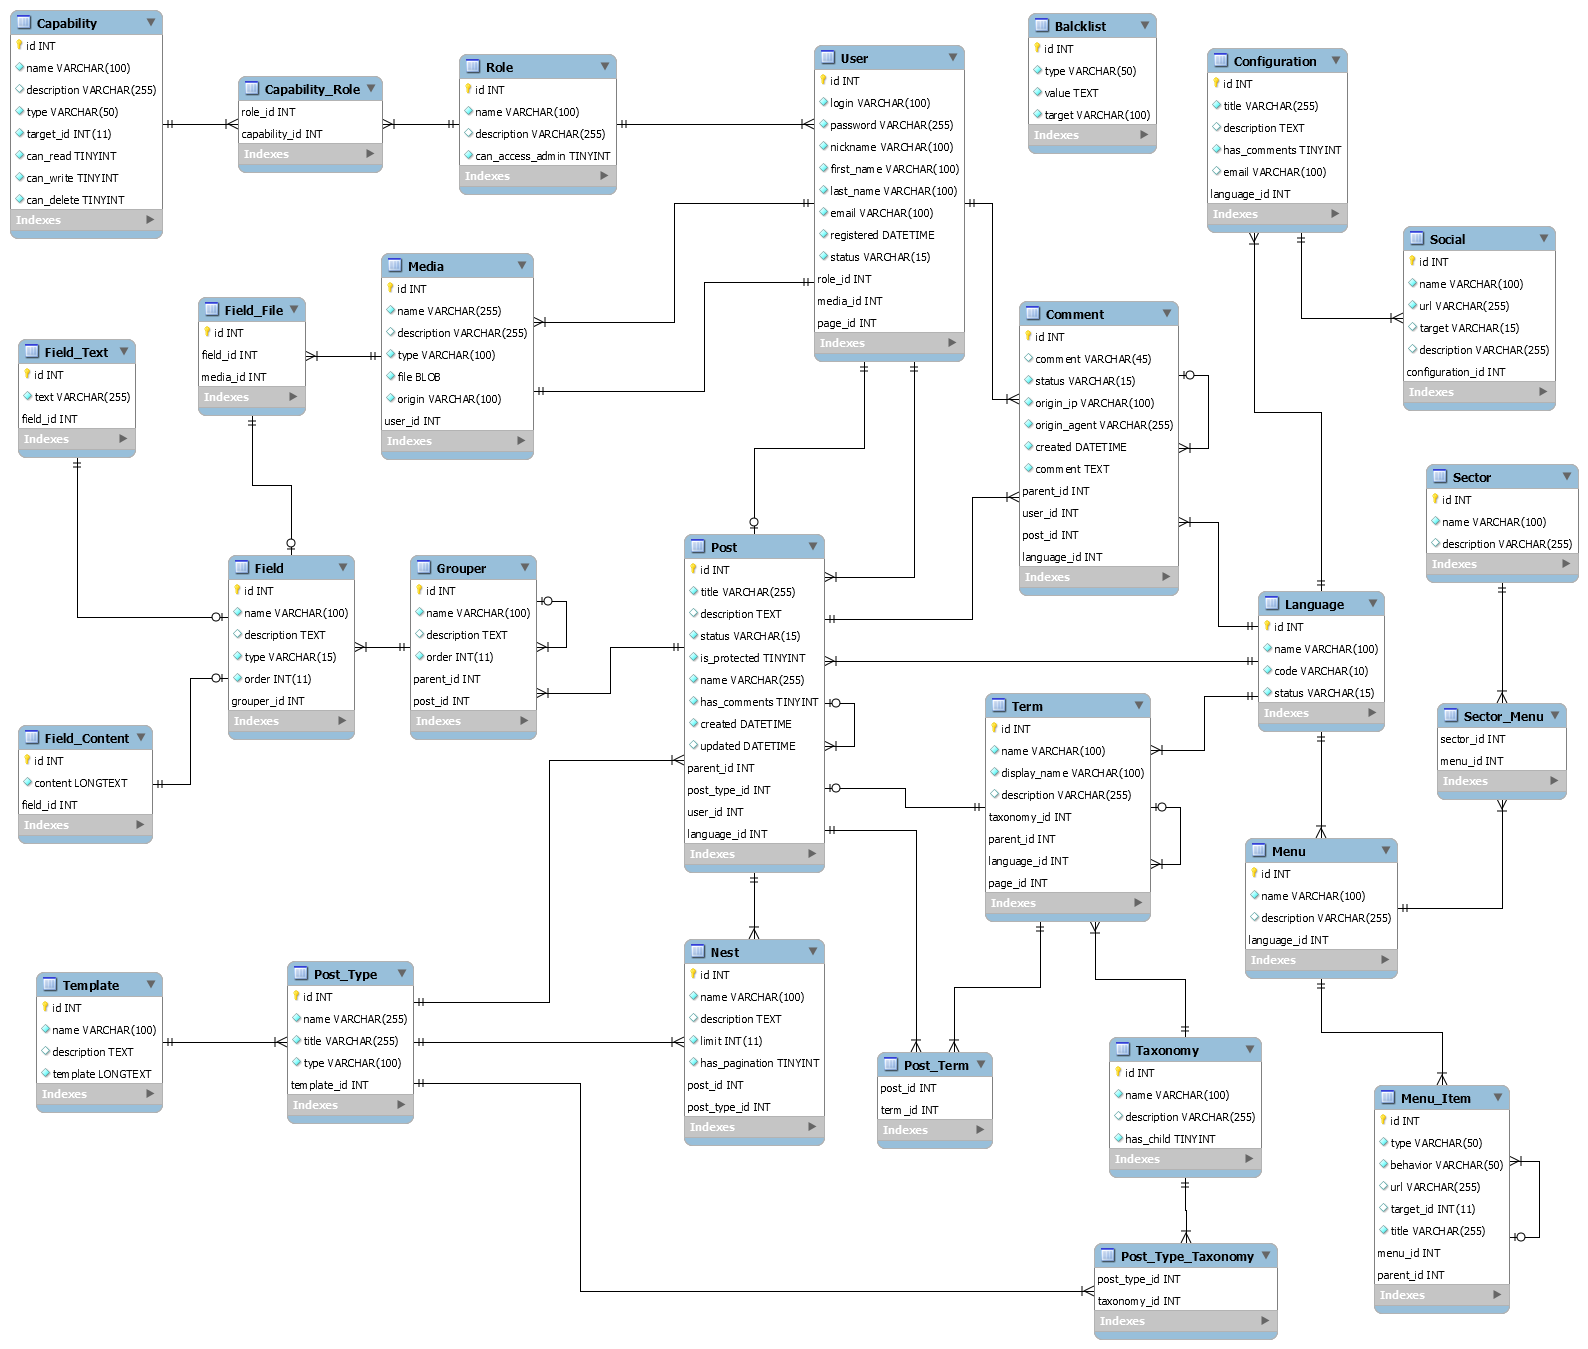
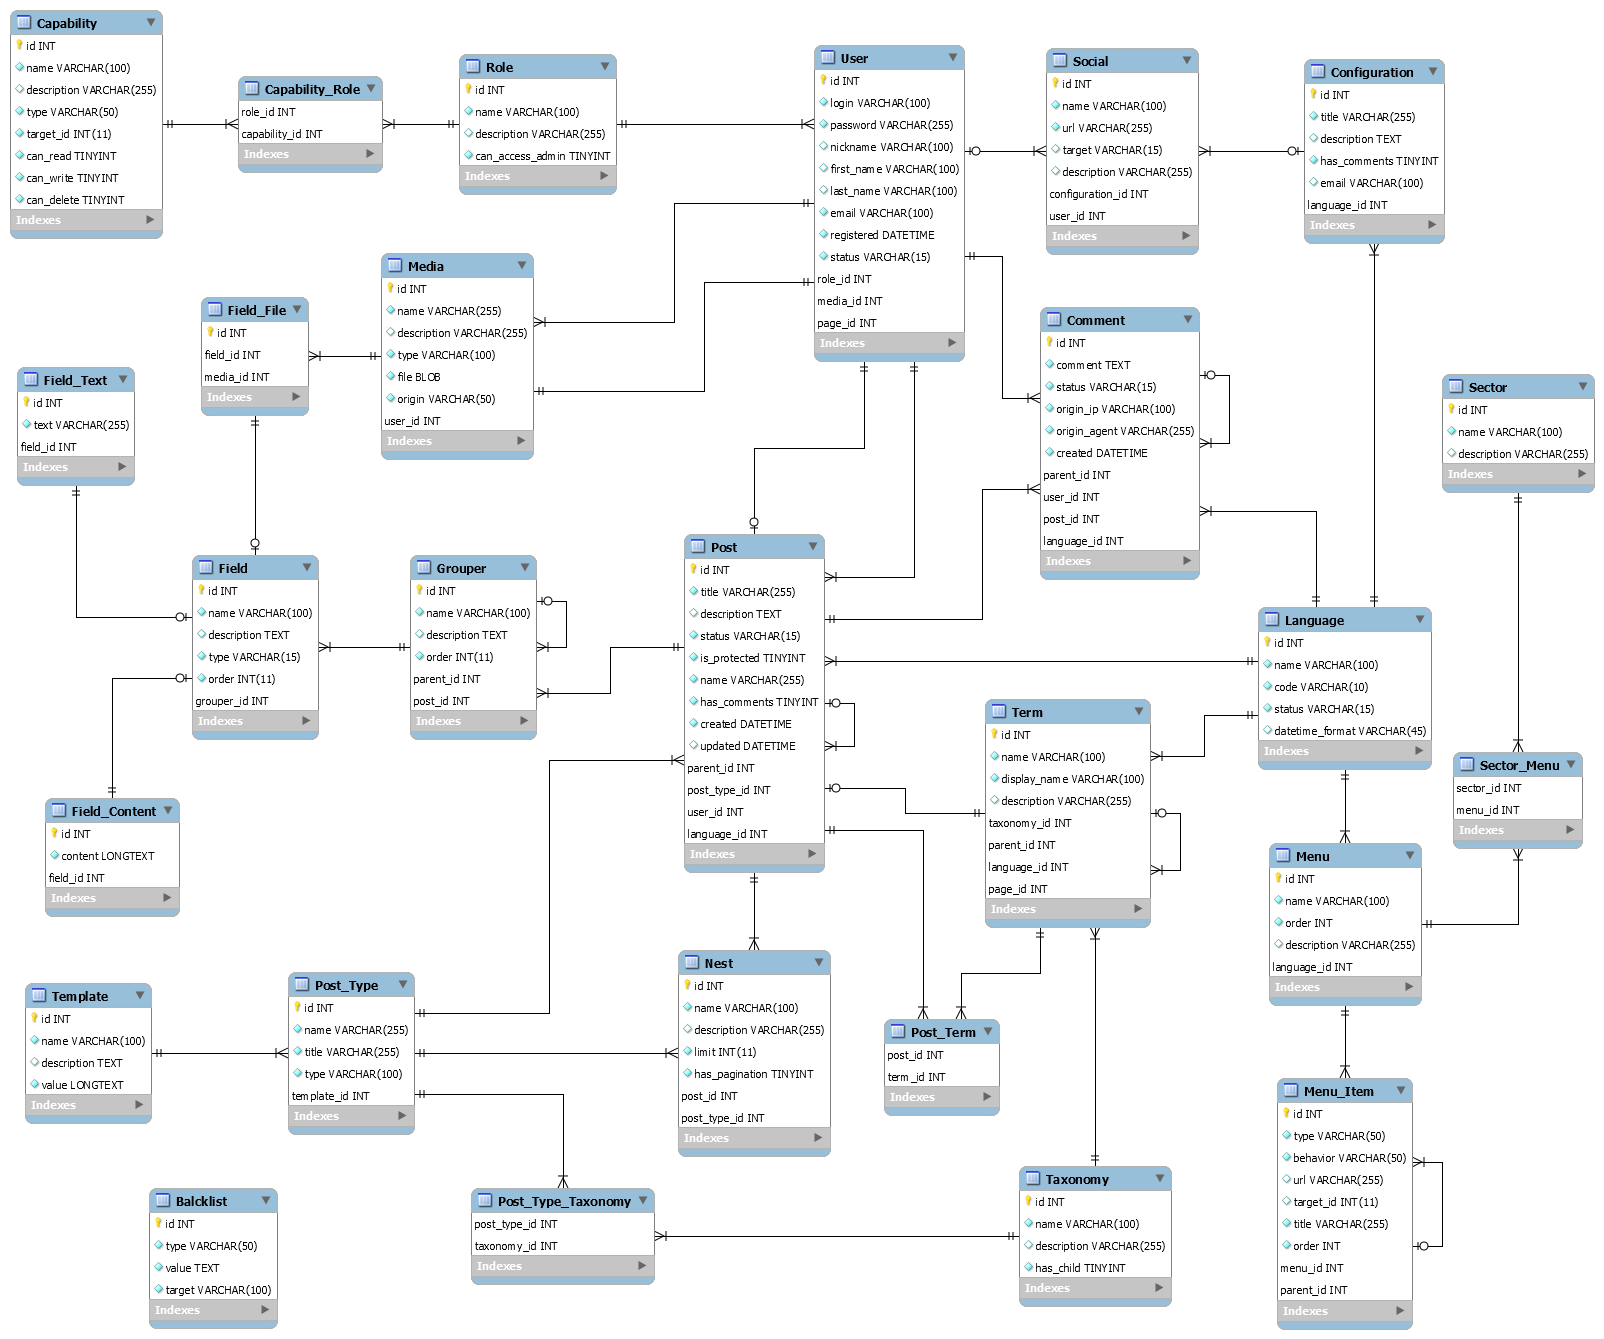
Create configuration and language intial flow db context

diff --git a/application/Models/DBContext.py b/application/Models/DBContext.py
@@ -70,6 +70,7 @@ class Post(Base):
     # foreignKeys
     parent_id = Column(Integer, ForeignKey('Post.id'), nullable=True)
     post_type_id = Column(Integer, ForeignKey('Post_Type.id'), nullable=False)
+    language_id = Column(Integer, ForeignKey('Language.id'), nullable=False)
     # relationships
     parent = relationship('Post', back_populates='children')
     children = relationship('Post', back_populates='parent')
@@ -78,6 +79,7 @@ class Post(Base):
     term = relationship('Term', back_populates='page')
     terms = relationship('Term', secondary=Post_Term, back_populates='posts')
     groupers = relationship('Grouper', back_populates='post')
+    language = relationship('Language', back_populates='languages')
 
 
 class Nest(Base):
@@ -104,13 +106,15 @@ class Term(Base):
     # foreignKeys
     parent_id = Column(Integer, ForeignKey('Term.id'), nullable=True)
     page_id = Column(Integer, ForeignKey('Post.id'), nullable=True) # the term's custom page
-    taxonomy_id = Column(Integer, ForeignKey('Taxonomy.id'), nullable=True)
+    taxonomy_id = Column(Integer, ForeignKey('Taxonomy.id'), nullable=False)
+    language_id = Column(Integer, ForeignKey('Language.id'), nullable=False)
     # relationships
     parent = relationship('Term', back_populates='children')
     children = relationship('Term', back_populates='parent')
     page = relationship('Post', back_populates='term')
     posts = relationship('Post', secondary=Post_Term, back_populates='terms')
     taxonomy = relationship('Taxonomy', back_populates='terms')
+    language = relationship('Language', back_populates='terms')
 
 
 class Taxonomy(Base):
@@ -276,3 +280,47 @@ class User(Base):
     role_id = Column(Integer, ForeignKey('Role.id'), nullable=False)
     # relationships
     role = relationship('Role', back_populates='users')
+    socials = relationship('Social', back_populates='user')
+
+
+class Language(Base):
+    __tablename__ = 'Language'
+    id = Column(Integer, primary_key=True)
+    name = Column(String(100), nullable=False, unique=True)
+    code = Column(String(10), nullable=False, unique=True)
+    status = Column(String(15), nullable=False)
+    datetime_format = Column(String(100), nullable=True) # must be an regular expression
+    # relationships
+    posts = relationship('Post', back_populates='language')
+    terms = relationship('Term', back_populates='language')
+    configurations = relationship('Configuration', back_populates='language')
+
+
+class Configuration(Base):
+    __tablename__ = 'Configuration'
+    id = Column(Integer, primary_key=True)
+    title = Column(String(255), nullable=False)
+    description = Column(String(255), nullable=True)
+    has_comments = Column(Boolean, nullable=False)
+    email = Column(String(100), nullable=True)
+    # foreignKeys
+    language_id = Column(Integer, ForeignKey('Language.id'), nullable=False)
+    # relationships
+    language = relationship('Language', back_populates='configurations')
+    socials = relationship('Social', back_populates='configurations')
+
+
+class Social(Base):
+    __tablename__ = 'Social'
+    id = Column(Integer, primary_key=True)
+    name = Column(String(100), nullable=False)
+    url = Column(String(255), nullable=False)
+    target = Column(String(15), nullable=True)
+    description = Column(String(255), nullable=True)
+    origin = Column(String(50), nullable=False)
+    # foreignKeys
+    configuration_id = Column(Integer, ForeignKey('Configuration.id'), nullable=False)
+    user_id = Column(Integer, ForeignKey('User.id'), nullable=False)
+    # relationships
+    configuration = relationship('Configuration', back_populates='socials')
+    user = relationship('User', back_populates='socials')
